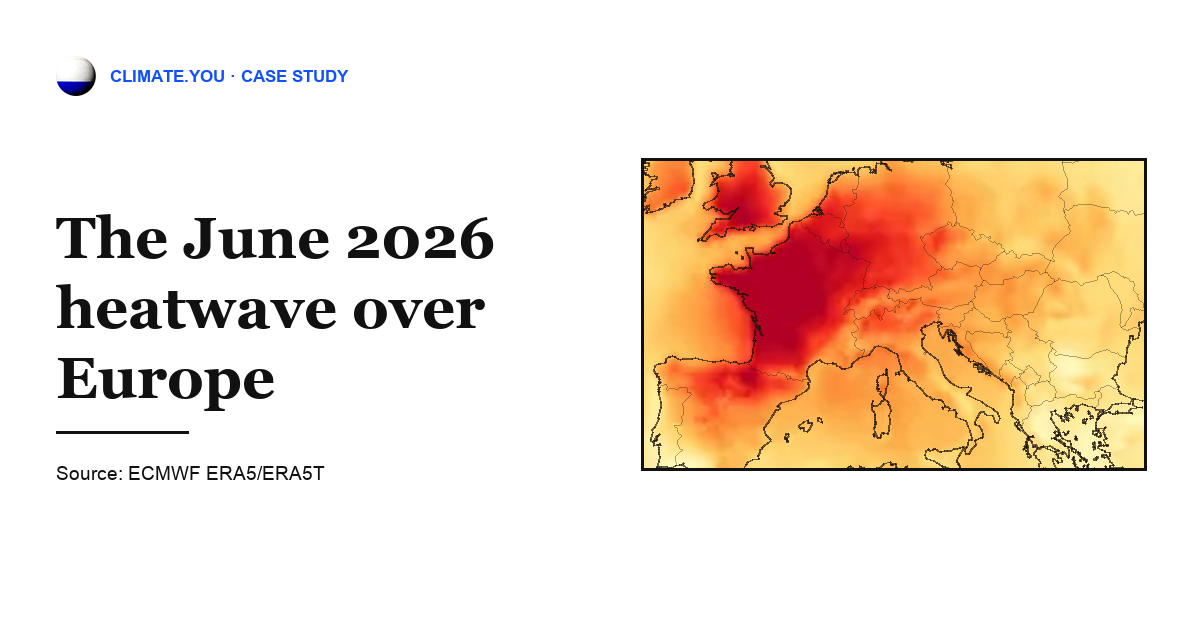
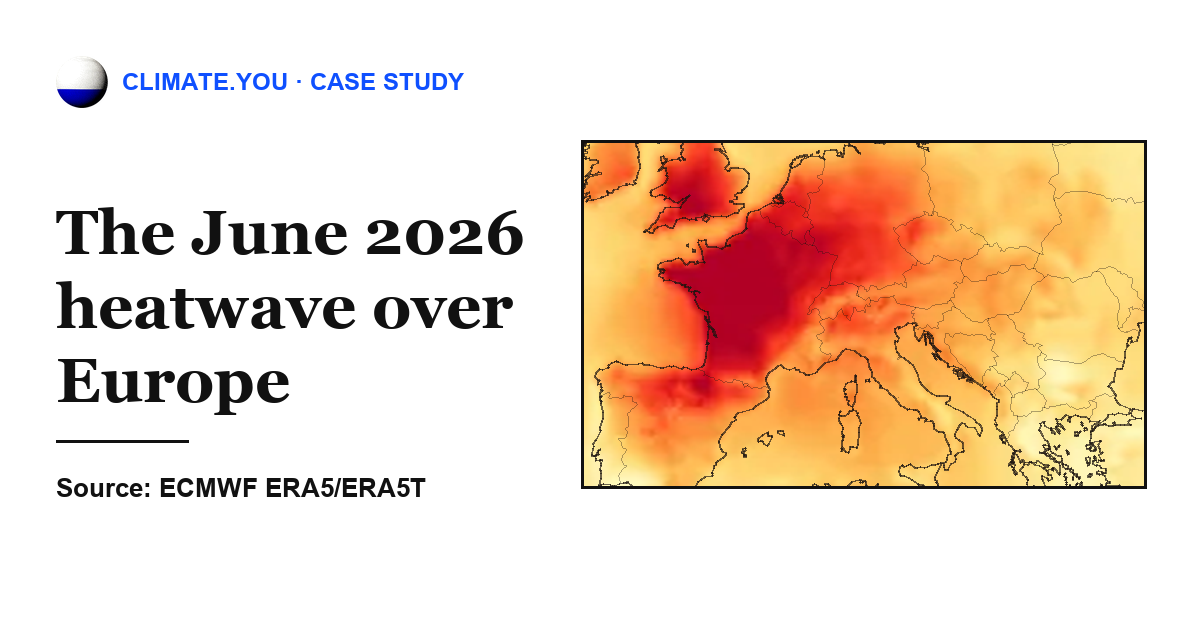
Make the story social card readable on a phone and name ERA5T
The shared Open Graph card was mostly empty space with type too small to
read at thumbnail size, and its supporting copy credited only ERA5.
Enlarge the card's map, headline, kicker and source, darken the source
line, and update the share descriptions to credit ERA5/ERA5T.

- Widen the anomaly map crop and grow the headline, kicker and source type
- Darken the muted source line so it stays legible at chat-thumbnail size
- Credit the Copernicus ERA5/ERA5T record in the Open Graph descriptions
- Regenerate the June 2026 heatwave card with the current wording

diff --git a/web/src/app/stories/june-2026-heatwave/page.tsx b/web/src/app/stories/june-2026-heatwave/page.tsx
@@ -5,9 +5,9 @@ import HeatwaveStory from "@/content/stories/june-2026-heatwave/HeatwaveStory";
 const PATH = "/stories/june-2026-heatwave";
 const TITLE = "The June 2026 heatwave over Europe";
 const DESCRIPTION =
-  "Two spells of extreme heat swept Europe between mid-June and mid-July 2026. Where the heat sat, how it moved, and how far above the seasonal average it was — from the Copernicus ERA5 record.";
+  "Two spells of extreme heat swept Europe between mid-June and mid-July 2026. Where the heat sat, how it moved, and how far above the seasonal average it was — from the Copernicus ERA5/ERA5T record.";
 const SHORT_DESCRIPTION =
-  "Two spells of extreme heat swept Europe between mid-June and mid-July 2026, mapped from the Copernicus ERA5 record.";
+  "Two spells of extreme heat swept Europe between mid-June and mid-July 2026, mapped from the Copernicus ERA5/ERA5T record.";
 const PUBLISHED = "2026-07-19";
 const AUTHORS = ["Benoit Leveau", "Fanny Chaléon"];
 const OG_IMAGE = "/story/june-2026-heatwave-og.png";

diff --git a/scripts/make_story_og_image.py b/scripts/make_story_og_image.py
@@ -28,7 +28,9 @@ sys.path.insert(0, str(REPO_ROOT))
 W, H = 1200, 630
 MARGIN = 56
 INK = (17, 17, 17)
-MUTED = (17, 17, 17, 168)
+# The card is read at thumbnail size in a chat list, so the secondary type is
+# only lightly greyed — anything softer stops being legible on a phone.
+MUTED = (17, 17, 17, 210)
 BLUE = (15, 80, 255)
 FRAME = 3
 
@@ -160,7 +162,7 @@ def main() -> int:
     draw = ImageDraw.Draw(card, "RGBA")
 
     # ── Right: framed map ────────────────────────────────────────────────
-    map_w = 500
+    map_w = 560
     map_img = render_map(
         args.texture, args.lines, tuple(args.bbox), map_w, args.lat_max
     )
@@ -177,14 +179,14 @@ def main() -> int:
     text_w = map_x - MARGIN - 44
     y = MARGIN
 
-    logo_size = 40
+    logo_size = 52
     if args.logo.exists():
         logo = Image.open(args.logo).convert("RGBA").resize(
             (logo_size, logo_size), Image.LANCZOS
         )
         card.paste(logo, (MARGIN, y), logo)
 
-    kicker_font = font(_SANS_BOLD, 17)
+    kicker_font = font(_SANS_BOLD, 24)
     draw.text(
         (MARGIN + logo_size + 14, y + logo_size / 2),
         args.kicker.upper(), font=kicker_font, fill=BLUE, anchor="lm",
@@ -192,11 +194,11 @@ def main() -> int:
 
     # Centre the headline block in the space below the mark, so the card does
     # not sit top-heavy with a dead band along the bottom.
-    title_font = font(_SERIF_BOLD, 58)
-    source_font = font(_SANS, 19)
+    title_font = font(_SERIF_BOLD, 62)
+    source_font = font(_SANS_BOLD, 26)
     lines = wrap(args.title, title_font, text_w)
-    line_h, rule_gap, source_gap = 70, 18, 30
-    block_h = len(lines) * line_h + rule_gap + 3 + source_gap + 24
+    line_h, rule_gap, source_gap = 74, 22, 32
+    block_h = len(lines) * line_h + rule_gap + 3 + source_gap + 32
     top = y + logo_size + 24
     bottom = H - MARGIN
     y = top + max(0, (bottom - top - block_h) // 2)

diff --git a/docs/runbooks/story-coastline-overlay.md b/docs/runbooks/story-coastline-overlay.md
@@ -88,7 +88,7 @@ reusing the same texture crop and coastline overlay:
 ```bash
 python scripts/make_story_og_image.py \
   --texture data/releases/dev/maps/global_0p25/t2m_heatwave_2026_w2_mercator_texture/t2m_heatwave_2026_w2_mercator.webp \
-  --title "The June–July 2026 heat over Europe" \
+  --title "The June 2026 heatwave over Europe" \
   --out web/public/story/june-2026-heatwave-og.png
 ```
 
